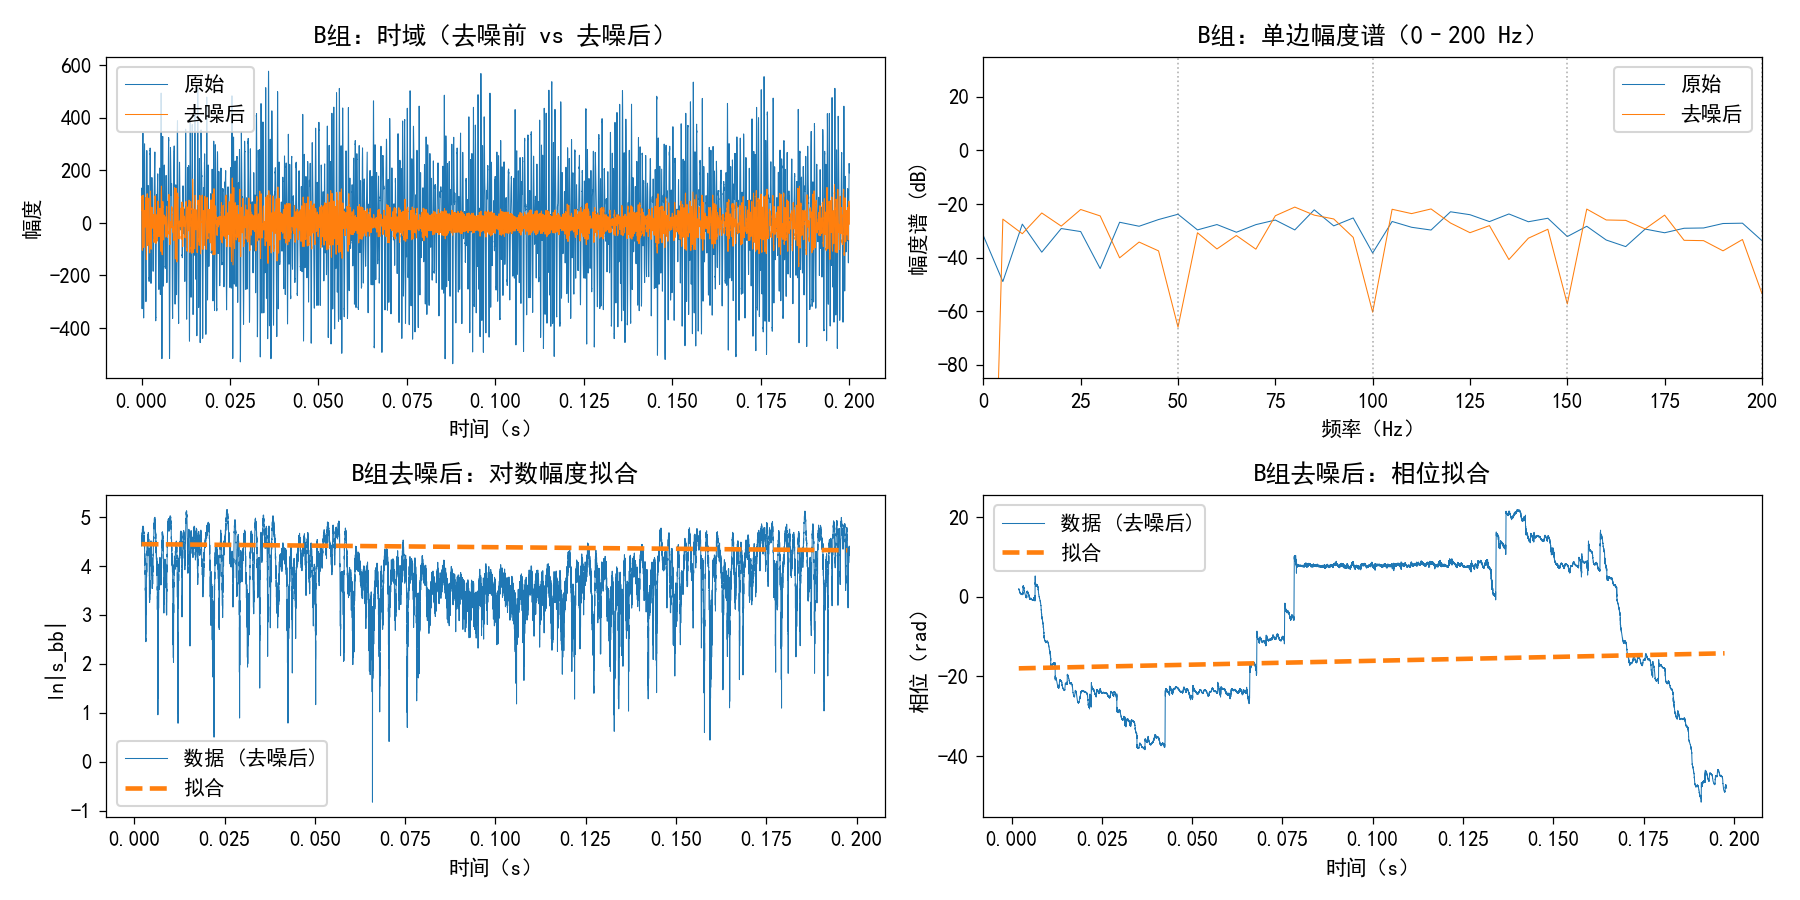
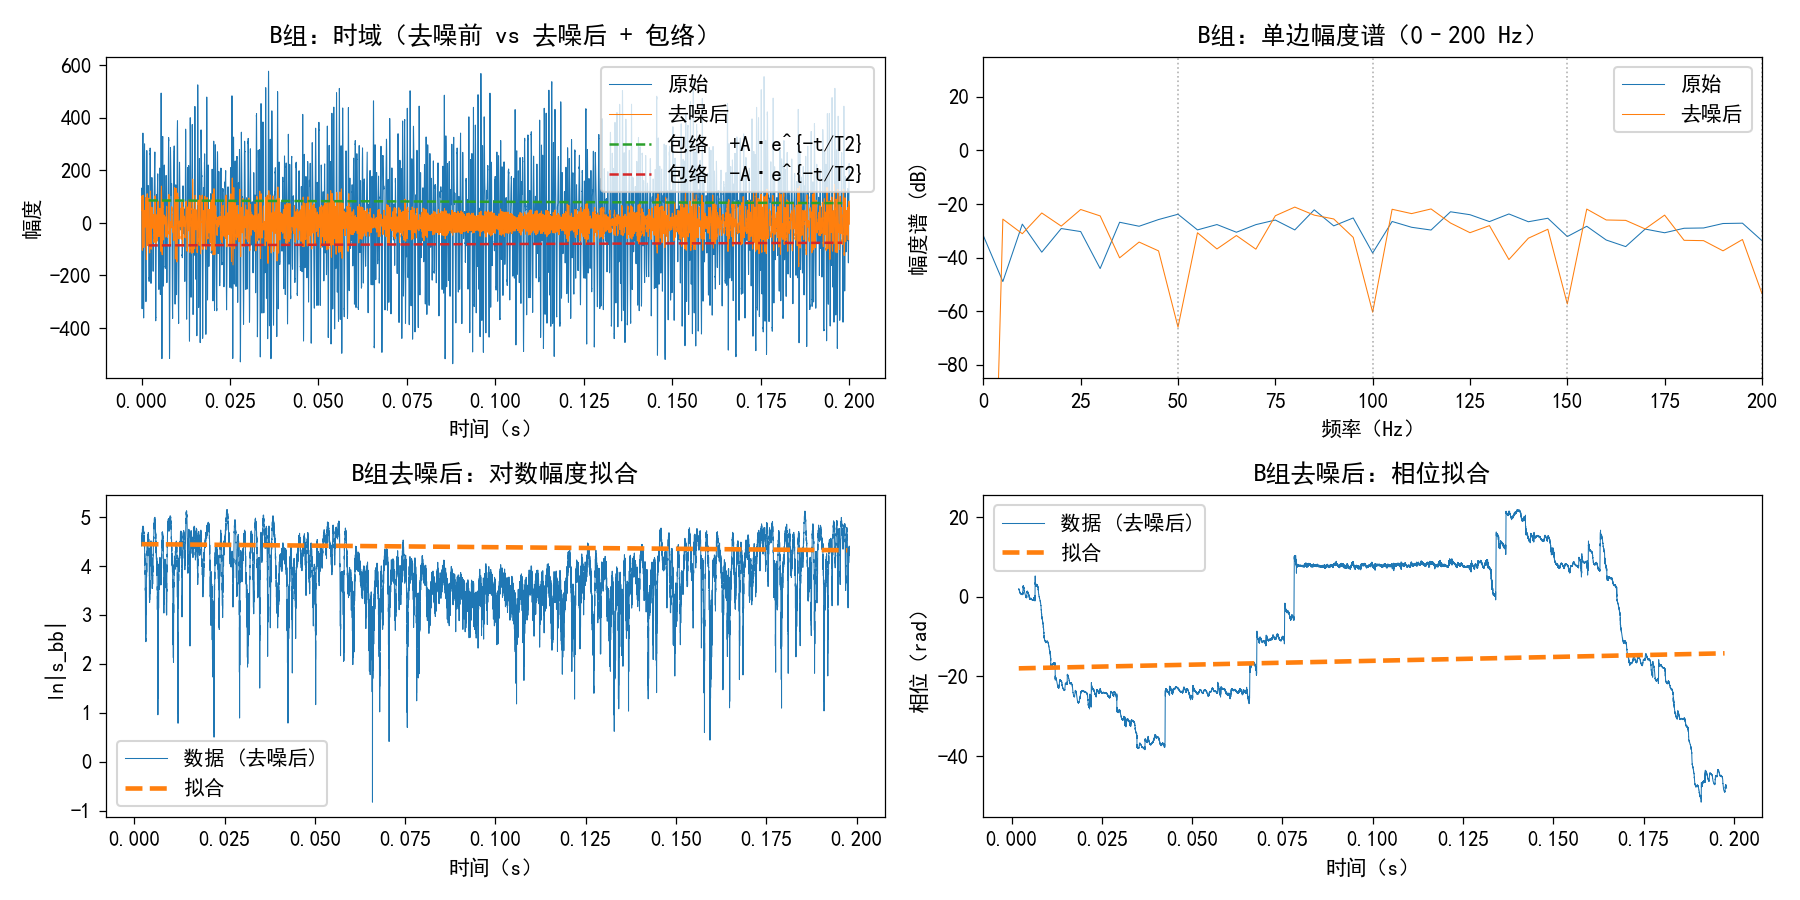
change the NMR exp2

Changed region(s): [[0.1556, 0.0311, 0.4978, 0.2489], [0.0622, 0.0622, 0.1556, 0.1556]]

diff --git a/exp2/code1.py b/exp2/code1.py
@@ -9,6 +9,7 @@ NMR 信号处理与参数估计（自适应扫频版，纯 NumPy/Scipy，无 pan
 1) 频谱：使用 rFFT 单边幅度谱（dB），不使用窗函数/PSD/Welch，符合“不得引入实验书外步骤”。
 2) 组B谐波：采用自适应扫频（黄金分割 + 可选抛物线精修）锁定工频基频，再在全量数据+目标K做一次拟合后相减。
 3) 组A/组B(clean)：希尔伯特→下变频→两次线性拟合；并以其为初值做一次非线性复域拟合。
+4) 步骤3绘图要求：fig3 左上为“去噪前 vs 去噪后”时域，并**叠加指数包络 ±A·e^{-t/T2}**；右上为(0–200 Hz) 频谱对比；左下为 ln|s_bb| 直线拟合；右下为相位展开直线拟合。
 """
 
 import re
@@ -39,7 +40,7 @@ OUTPUT_DIR.mkdir(exist_ok=True)
 def pjoin(name: str) -> str: return str(OUTPUT_DIR / name)
 
 # ===== 实验参数 =====
-FS = 100_000.0           # 采样率（你已确认 100 kHz）
+FS = 100_000.0           # 采样率（必要时修改为数据真实采样率）
 EDGE_TRIM_FRAC = 0.01    # 希尔伯特后两端丢弃比例
 AMP_FRONT_FRACTION = 0.5 # 线性回归使用前段幅度≥50%区域
 USE_WLS = True           # 线性回归使用加权
@@ -107,6 +108,7 @@ def load_signal(path_like, fs=FS):
 
 # ===== 频谱（dB，无窗）=====
 DB_EPS = 1e-20
+
 def rfft_spectrum(y, fs):
     n = len(y)
     Y = np.fft.rfft(y)
@@ -115,6 +117,7 @@ def rfft_spectrum(y, fs):
     mag_db = 20.0 * np.log10(mag + DB_EPS)
     return f, mag_db
 
+# （仅 fig1 使用的辅助标注；与步骤3无关）
 def annotate_peak_and_noise(ax, f, mag_db, fmin=PEAK_SEARCH_FMIN, exclude_hz=NOISE_EXCLUDE_HZ, label=None):
     f = np.asarray(f); mag_db = np.asarray(mag_db)
     mask = (f >= fmin)
@@ -144,12 +147,14 @@ def build_design_matrix(f_base, t, K, include_dc=True):
         A = np.hstack([cos_block, sin_block])
     return A
 
+
 def ls_solve(A, y):
     theta, residuals, rank, s = np.linalg.lstsq(A, y, rcond=None)
     rss = float(residuals[0]) if residuals.size > 0 else float(np.sum((y - A @ theta)**2))
     return theta, rss
 
 # —— 自适应扫频小工具 ——
+
 def prepare_for_sweep(t, y, decim=SWEEP_DECIM, maxlen=SWEEP_MAXLEN):
     if decim > 1:
         t_ds = t[::decim]; y_ds = y[::decim]
@@ -162,10 +167,12 @@ def prepare_for_sweep(t, y, decim=SWEEP_DECIM, maxlen=SWEEP_MAXLEN):
         t_ds = t_ds[start:stop]; y_ds = y_ds[start:stop]
     return t_ds, y_ds
 
+
 def rss_at_freq(ftest, t_vec, y_vec, K, include_dc=True):
     A = build_design_matrix(ftest, t_vec, K, include_dc=include_dc)
     _, rss = ls_solve(A, y_vec)
     return float(rss)
+
 
 def golden_section_minimize(f, a, b, tol=GOLD_TOL, max_eval=GOLD_MAX_EVAL):
     phi = (1 + np.sqrt(5)) / 2.0
@@ -189,6 +196,7 @@ def golden_section_minimize(f, a, b, tol=GOLD_TOL, max_eval=GOLD_MAX_EVAL):
     x_best, f_best = (x1, f1) if f1 < f2 else (x2, f2)
     return x_best, f_best, evals
 
+
 def parabolic_refine(evals):
     if len(evals) < 3: return None
     pts = sorted(evals, key=lambda p: p[1])[:3]
@@ -201,6 +209,7 @@ def parabolic_refine(evals):
     if abs(A) < 1e-20: return None
     x0 = -B / (2*A)
     return x0
+
 
 def harmonic_denoise_adaptive(y, t, K=HARM_K, f_min=FSCAN_MIN, f_max=FSCAN_MAX):
     # 1) 频谱种子
@@ -229,7 +238,7 @@ def harmonic_denoise_adaptive(y, t, K=HARM_K, f_min=FSCAN_MIN, f_max=FSCAN_MAX):
     # 3) 黄金分割找最小 RSS
     f_best_sw, rss_best_sw, evals = golden_section_minimize(rss_f, a, b, tol=GOLD_TOL, max_eval=GOLD_MAX_EVAL)
 
-    # 4) 抛物线精修
+    # 4) 可选抛物线精修
     if PARABOLIC_REFINE:
         x0 = parabolic_refine(evals)
         if x0 is not None and (a <= x0 <= b):
@@ -242,10 +251,15 @@ def harmonic_denoise_adaptive(y, t, K=HARM_K, f_min=FSCAN_MIN, f_max=FSCAN_MAX):
     theta_best, _ = ls_solve(A_best_full, y)
     v_har = A_best_full @ theta_best
     y_clean = y - v_har
+
+    # 自检（可选）：能量守恒
+    # assert np.allclose(y, v_har + y_clean, atol=1e-8)
+
     return y_clean, v_har, f_best_sw
 
 
 # ===== 基带化与拟合 =====
+
 def hilbert_baseband(y, fs, f_guess, f_delta=F_DELTA_TARGET, edge_frac=EDGE_TRIM_FRAC):
     n = len(y); t = np.arange(n)/fs
     z = hilbert(y)
@@ -255,12 +269,14 @@ def hilbert_baseband(y, fs, f_guess, f_delta=F_DELTA_TARGET, edge_frac=EDGE_TRIM
     sl = slice(cut, n-cut) if cut > 0 else slice(0, n)
     return t[sl], s_bb[sl], f_T, sl
 
+
 def select_front_segment_by_amplitude(s_bb, t, frac=AMP_FRONT_FRACTION):
     amp = np.abs(s_bb); peak = np.max(amp); thresh = frac * peak
     idx = np.where(amp >= thresh)[0]
     if len(idx) == 0:
         k = max(1, int(0.3 * len(amp))); return t[:k], s_bb[:k]
     end = idx[-1] + 1; return t[:end], s_bb[:end]
+
 
 def wls_fit_line(x, y, w=None):
     x = np.asarray(x).reshape(-1,1); y = np.asarray(y).reshape(-1,1); n = len(x)
@@ -275,6 +291,7 @@ def wls_fit_line(x, y, w=None):
     sb = float(np.sqrt(cov[0,0])); sm = float(np.sqrt(cov[1,1]))
     b = float(beta[0,0]); m = float(beta[1,0])
     return m, b, sm, sb, rss
+
 
 def linear_params_from_baseband(t, s_bb, f_T, use_wls=USE_WLS):
     t_lin, s_lin = select_front_segment_by_amplitude(s_bb, t, frac=AMP_FRONT_FRACTION)
@@ -292,12 +309,15 @@ def linear_params_from_baseband(t, s_bb, f_T, use_wls=USE_WLS):
     sigma_f0 = sm2/(2*np.pi); sigma_phi = sb2
     return (A, T2, f0, phi), (sigma_A, sigma_T2, sigma_f0, sigma_phi)
 
+
 def complex_model(t, A, T2, df, phi):
     return A * np.exp(-t/T2) * np.exp(1j*(2*np.pi*df*t + phi))
+
 
 def stacked_model(t, A, T2, df, phi):
     g = complex_model(t, A, T2, df, phi)
     return np.hstack([np.real(g), np.imag(g)])
+
 
 def nonlinear_fit_from_linear_init(t, s_bb, A0, T20, f0, phi0, f_T):
     y_stack = np.hstack([np.real(s_bb), np.imag(s_bb)])
@@ -311,7 +331,18 @@ def nonlinear_fit_from_linear_init(t, s_bb, A0, T20, f0, phi0, f_T):
     f0_nl = df + f_T
     return (A, T2, f0_nl, phi), popt, pcov
 
+# ===== 频谱峰值（稳健） =====
+
+def robust_peak(f, mag_db, fmin=PEAK_SEARCH_FMIN):
+    f = np.asarray(f); mag_db = np.asarray(mag_db)
+    mask = (f >= fmin)
+    if np.any(mask):
+        idx0 = np.argmax(mag_db[mask])
+        return float(f[mask][idx0])
+    return float(f[np.argmax(mag_db)])
+
 # ===== 主流程 =====
+
 def main():
     print("脚本目录 =", SCRIPT_DIR)
     print("输出目录 =", OUTPUT_DIR)
@@ -345,28 +376,16 @@ def main():
     # === 组B：自适应扫频谐波去除 ===
     yB_clean, vhar, f0_power = harmonic_denoise_adaptive(yB, tB, K=HARM_K)
 
-    # (!!!) 修正：立即计算去噪后的频谱，以便后续 B 组拟合使用
+    # 去噪后频谱（用于 fig3 对比与峰值估计）
     f_cln, m_cln_db = rfft_spectrum(yB_clean, FS)
 
     # === A/B(clean)：希尔伯特→下变频→线性估计 ===
-    
-    # --- A 组 ---
-    fA_pk = float(fA[np.argmax(mA_db[(fA>=PEAK_SEARCH_FMIN)]) + np.where(fA>=PEAK_SEARCH_FMIN)[0][0]]) #
-    
-    # (!!!) 修复：确保 tA_trim 这一行存在
-    tA_trim, sA_bb, fT_A, _ = hilbert_baseband(yA, FS, fA_pk, f_delta=F_DELTA_TARGET, edge_frac=EDGE_TRIM_FRAC) #
-    
-    (A_A, T2_A, f0_A, phi_A), (sA_A, sT2_A, sf0_A, sphi_A) = linear_params_from_baseband(tA_trim, sA_bb, fT_A) #
+    # A 组峰值（稳健）
+    fA_pk = robust_peak(fA, mA_db, fmin=PEAK_SEARCH_FMIN)
+    tA_trim, sA_bb, fT_A, _ = hilbert_baseband(yA, FS, fA_pk, f_delta=F_DELTA_TARGET, edge_frac=EDGE_TRIM_FRAC)
+    (A_A, T2_A, f0_A, phi_A), (sA_A, sT2_A, sf0_A, sphi_A) = linear_params_from_baseband(tA_trim, sA_bb, fT_A)
 
-    # --- B 组 (Clean) ---
-    # (使用你添加的 robust_peak 函数)
-    def robust_peak(f, mag_db, fmin=PEAK_SEARCH_FMIN):
-        mask = (f >= fmin)
-        if np.any(mask):
-            idx0 = np.argmax(mag_db[mask])
-            return float(f[mask][idx0])
-        return float(f[np.argmax(mag_db)]) 
-
+    # B 组（clean）峰值（稳健）
     fB_pk = robust_peak(f_cln, m_cln_db, fmin=PEAK_SEARCH_FMIN)
     tB_trim, sB_bb, fT_B, _ = hilbert_baseband(yB_clean, FS, fB_pk, f_delta=F_DELTA_TARGET, edge_frac=EDGE_TRIM_FRAC)
     (A_B, T2_B, f0_B, phi_B), (sA_B, sT2_B, sf0_B, sphi_B) = linear_params_from_baseband(tB_trim, sB_bb, fT_B)
@@ -385,50 +404,52 @@ def main():
     axR.plot(tA_seg, (phi_A + 2*np.pi*(f0_A - fT_A)*tA_seg), '--', lw=FIT_LW, zorder=3, label="拟合")
     axR.set_title("A组：相位拟合"); axR.set_xlabel("时间（s）"); axR.set_ylabel("相位（rad）"); axR.legend()
 
-    # (!!!) 修正：只保存一次 fig2
     fig2.tight_layout(); fig2.savefig(pjoin("fig2.png"), dpi=150); plt.close(fig2)
 
-    # (!!!) 修正：这是 fig3 的正确位置
     # === fig3：去谐波前后对比 + B组线性拟合 ===
     fig3 = plt.figure(figsize=(12, 6))
-    ax1 = fig3.add_subplot(2, 2, 1); ax2 = fig3.add_subplot(2, 2, 2)
-    ax3 = fig3.add_subplot(2, 2, 3); ax4 = fig3.add_subplot(2, 2, 4)
+    g1 = fig3.add_subplot(2, 2, 1); g2 = fig3.add_subplot(2, 2, 2)
+    g3 = fig3.add_subplot(2, 2, 3); g4 = fig3.add_subplot(2, 2, 4)
 
-    # 子图1：时域对比
-    ax1.plot(tB, yB, label="原始")
-    ax1.plot(tB, yB_clean, label="去噪后")
-    ax1.set_title("B组：时域（去噪前 vs 去噪后）")
-    ax1.set_xlabel("时间（s）"); ax1.set_ylabel("幅度"); ax1.legend()
+    # 子图1：时域对比 + 指数包络（按步骤3要求）
+    g1.plot(tB, yB, label="原始")
+    g1.plot(tB, yB_clean, label="去噪后")
+    # 叠加指数包络（与线性估计一致，使用 tB_trim 坐标）
+    env_B = A_B * np.exp(-tB_trim / T2_B)
+    g1.plot(tB_trim,  env_B, '--', lw=1.2, label='包络  +A·e^{-t/T2}')
+    g1.plot(tB_trim, -env_B, '--', lw=1.2, label='包络  -A·e^{-t/T2}')
+    g1.set_title("B组：时域（去噪前 vs 去噪后 + 包络）")
+    g1.set_xlabel("时间（s）"); g1.set_ylabel("幅度"); g1.legend()
 
-    # 子图2：低频频谱对比
-    ax2.plot(fB0, mB0_db, label="原始")
-    ax2.plot(f_cln, m_cln_db, label="去噪后")
-    ax2.set_xlim(0, 200)
+    # 子图2：低频频谱对比（0–200 Hz）
+    g2.plot(fB0, mB0_db, label="原始")
+    g2.plot(f_cln, m_cln_db, label="去噪后")
+    g2.set_xlim(0, 200)
     ymax = max(np.max(mB0_db), np.max(m_cln_db))
-    ax2.set_ylim(ymax-120, ymax)
-    ax2.set_title("B组：单边幅度谱（0–200 Hz）")
-    ax2.set_xlabel("频率（Hz）"); ax2.set_ylabel("幅度谱 (dB)")
+    g2.set_ylim(ymax-120, ymax)
+    g2.set_title("B组：单边幅度谱（0–200 Hz）")
+    g2.set_xlabel("频率（Hz）"); g2.set_ylabel("幅度谱 (dB)")
+    # 标注谐波位置
     max_n = int(200.0 // f0_power)
     for n in range(1, max_n+1):
-        ax2.axvline(n*f0_power, color="gray", lw=0.8, ls=":", alpha=0.6)
-    ax2.legend()
+        g2.axvline(n*f0_power, color="gray", lw=0.8, ls=":", alpha=0.6)
+    g2.legend()
 
-    # 子图3：B组对数幅度拟合 (这部分代码是正确的)
+    # 子图3：B组（去噪后）对数幅度直线拟合
     tB_seg, sB_seg = select_front_segment_by_amplitude(sB_bb, tB_trim, frac=AMP_FRONT_FRACTION)
-    ax3.plot(tB_trim, np.log(np.maximum(np.abs(sB_bb), 1e-16)), label="数据 (去噪后)")
-    ax3.plot(tB_seg, (np.log(A_B) - (1.0/T2_B)*tB_seg), '--', lw=FIT_LW, zorder=3, label="拟合")
-    ax3.set_title("B组去噪后：对数幅度拟合"); ax3.set_xlabel("时间（s）"); ax3.set_ylabel("ln|s_bb|"); ax3.legend()
+    g3.plot(tB_trim, np.log(np.maximum(np.abs(sB_bb), 1e-16)), label="数据 (去噪后)")
+    g3.plot(tB_seg, (np.log(A_B) - (1.0/T2_B)*tB_seg), '--', lw=FIT_LW, zorder=3, label="拟合")
+    g3.set_title("B组去噪后：对数幅度拟合"); g3.set_xlabel("时间（s）"); g3.set_ylabel("ln|s_bb|"); g3.legend()
 
-    # 子图4：B组相位拟合 (这部分代码也是正确的)
+    # 子图4：B组（去噪后）相位直线拟合
     phB = np.unwrap(np.angle(sB_bb))
-    ax4.plot(tB_trim, phB, label="数据 (去噪后)")
-    ax4.plot(tB_seg, (phi_B + 2*np.pi*(f0_B - fT_B)*tB_seg), '--', lw=FIT_LW, zorder=3, label="拟合")
-    ax4.set_title("B组去噪后：相位拟合"); ax4.set_xlabel("时间（s）"); ax4.set_ylabel("相位（rad）"); ax4.legend()
+    g4.plot(tB_trim, phB, label="数据 (去噪后)")
+    g4.plot(tB_seg, (phi_B + 2*np.pi*(f0_B - fT_B)*tB_seg), '--', lw=FIT_LW, zorder=3, label="拟合")
+    g4.set_title("B组去噪后：相位拟合"); g4.set_xlabel("时间（s）"); g4.set_ylabel("相位（rad）"); g4.legend()
 
     fig3.tight_layout(); fig3.savefig(pjoin("fig3.png"), dpi=150); plt.close(fig3)
 
     # === 非线性复域拟合（A/B）===
-    # (!!!) 修正：只执行一次
     params_nl_A, _, _ = nonlinear_fit_from_linear_init(tA_trim, sA_bb, A_A, T2_A, f0_A, phi_A, fT_A)
     params_nl_B, _, _ = nonlinear_fit_from_linear_init(tB_trim, sB_bb, A_B, T2_B, f0_B, phi_B, fT_B)
     A_A_nl, T2_A_nl, f0_A_nl, phi_A_nl = params_nl_A
@@ -452,18 +473,18 @@ def main():
 
     c3.plot(tB_trim, np.real(sB_bb), label="数据")
     c3.plot(tB_trim, np.real(gB), '--', lw=FIT_LW, zorder=3, label="拟合")
-    c3.set_title("B组：实部（数据 vs N拟合）"); c3.set_xlabel("时间（s）"); c3.set_ylabel("实部"); c3.legend()
+    c3.set_title("B组：实部（数据 vs 拟合）"); c3.set_xlabel("时间（s）"); c3.set_ylabel("实部"); c3.legend()
 
     c4.plot(tB_trim, np.imag(sB_bb), label="数据")
     c4.plot(tB_trim, np.imag(gB), '--', lw=FIT_LW, zorder=3, label="拟合")
-    c4.set_title("B组：虚部（数据 vs N拟合）"); c4.set_xlabel("时间（s）"); c4.set_ylabel("虚部"); c4.legend()
+    c4.set_title("B组：虚部（数据 vs 拟合）"); c4.set_xlabel("时间（s）"); c4.set_ylabel("虚部"); c4.legend()
 
     fig4.tight_layout(); fig4.savefig(pjoin("fig4.png"), dpi=150); plt.close(fig4)
 
     # === 统计与 results.txt ===
-    sum_raw2  = float(np.sum(yB**2))
+    sum_raw2   = float(np.sum(yB**2))
     sum_clean2 = float(np.sum(yB_clean**2))
-    sum_har2  = float(np.sum(vhar**2))
+    sum_har2   = float(np.sum(vhar**2))
     explained_pct = 100.0 * (sum_har2 / (sum_raw2 + 1e-12))
     reduction_pct = 100.0 * (1.0 - (sum_clean2 / (sum_raw2 + 1e-12)))
 
@@ -521,4 +542,3 @@ def main():
 
 if __name__ == "__main__":
     main()
-
